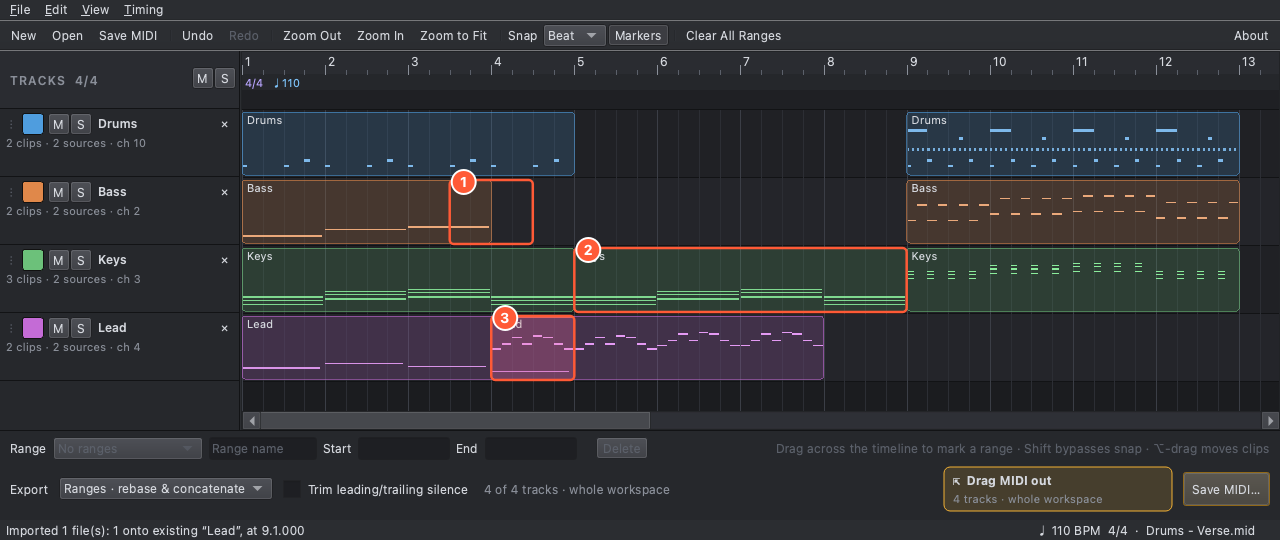
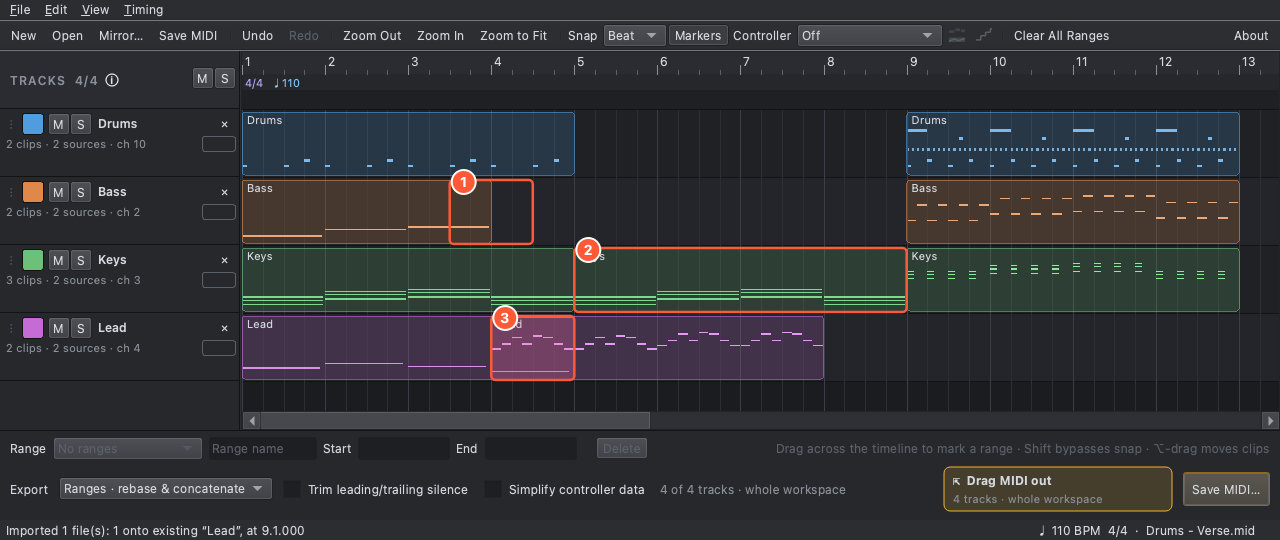
README: document mirror mode properly; real-project screenshots
- Mirror mode section rewritten: why, annotated screenshot of a real Reason
  song, a session start to finish, what carries across saves, what's read-only
- "Open DAW projects directly" gets a picture of real Cubase and Reason
  projects beside Reason's own MIDI export
- "See controller data" moved into Step 1; window description covers the
  track panel's title band
- All README screenshots regenerated for the current window; the generator
  gains the mirror and open-projects scenes, using projects in samples/

diff --git a/tools/make_readme_screenshots.py b/tools/make_readme_screenshots.py
@@ -338,10 +338,10 @@ def main() -> None:
     s = Shot(w)
     tl, tp, ep = w.timeline, w.track_panel, w.export_panel
     vw = tl.viewport().width()
-    s.note(QRectF(w.findChild(QToolBar).geometry()).adjusted(2, 2, -2, -2))
+    s.note(QRectF(w.findChild(QToolBar).geometry()).adjusted(2, 2, -2, -2), x=1180, y=36)
     s.note(vp_rect(w, 0, 0, vw, tl.range_top()))
     s.note(vp_rect(w, 0, tl.range_top(), vw, tl.header_h()))
-    s.note(QRectF(wrect(w, tp)).adjusted(1, tl.header_h(), -1, 0))
+    s.note(QRectF(wrect(w, tp)).adjusted(1, 1, -1, 0), x=162, y=89)
     s.note(vp_rect(w, 0, tl.header_h(), vw, tl.lane_top(4)), x=bar_x(w, 3) + 6, y=vp_rect(w, 0, tl.header_h(), 0, 0).top() + 14)
     s.note(wrect(w, ep).adjusted(2, 2, -2, -2))
     s.save("01-window.png")
@@ -504,6 +504,68 @@ def main() -> None:
     w.close()
     compose(parts).save(os.path.join(OUT, "08-export-modes.png"), "PNG")
     print("wrote docs/images/08-export-modes.png")
+
+    # ---- 9. mirror mode, on a real project -----------------------------------------------------------------
+    # The pictures in 9 and 10 use real projects kept in samples/ (a Reason song and a Cubase project), so they
+    # show what the readers really produce, not the demo song above.
+    from concurrent.futures import Future
+
+    class Inline:  # a synchronous executor, so the first read is done before the picture is taken
+        def submit(self, fn, *args):
+            fut = Future()
+            fut.set_result(fn(*args))
+            return fut
+
+    reason_song = os.path.join(ROOT, "samples", "reason-check", "Day01-0-3(14).reason")
+    w = new_window(app)
+    w.resize(1280, 660)
+    assert w.start_mirror(reason_song, executor=Inline())
+    w._mirror_watcher._timer.stop()  # nothing to poll in a picture
+    w._mirror_updated = "14:32:07"
+    w._update_mirror_banner()
+    w.timeline.zoom_to_fit()
+    ctl = w.ctl
+    ctl.add_range(F(24), F(56))
+    ctl.update_range(ctl.ws.ranges[0].id, name="Verse 1")
+    ctl.add_range(F(56), F(72))
+    ctl.update_range(ctl.ws.ranges[1].id, name="Chorus 1")
+    ctl.select_range(ctl.ws.ranges[1].id)
+    ctl.set_mute(next(t.id for t in ctl.ws.tracks if t.name == "Nice Strings"), True)  # muted here, not in the file
+    w.timeline.verticalScrollBar().setValue(w.timeline.lane_h)  # start at Piano L, below the muted Guide Track
+    s = Shot(w)
+    tl, tp = w.timeline, w.track_panel
+    vw = tl.viewport().width()
+    top = vp_rect(w, 0, tl.range_top(), 0, 0).top()
+    s.note(wrect(w, w.mirror_banner).adjusted(2, 1, -2, -1), x=1160, y=65)
+    s.note(vp_rect(w, tl.x_of(24) - 3, tl.range_top(), tl.x_of(72) + 3, tl.header_h()), x=bar_x(w, 22) + 150, y=top + 12)
+    mute_y = vp_rect(w, 0, tl.header_h() + 2 * tl.lane_h, 0, 0).top()  # the Nice Strings lane
+    s.note(QRectF(46, mute_y + 4, 50, 24), x=204, y=mute_y + 16)
+    s.save("09-mirror.png")
+    w.unmirror()
+    w.close()
+
+    # ---- 10. opening real projects directly --------------------------------------------------------------------
+    def lanes(path: str, rows: int, skip: int = 0) -> QPixmap:
+        win = new_window(app)
+        win.resize(1280, 640)
+        win.import_paths([path])
+        win.timeline.zoom_to_fit()
+        win.timeline.verticalScrollBar().setValue(skip * win.timeline.lane_h)
+        QApplication.processEvents()
+        y = pos_in(win, win.timeline.viewport(), QPoint(0, 0)).y()
+        pm = win.grab().copy(QRect(0, y - 2, win.width(), win.timeline.header_h() + rows * win.timeline.lane_h))
+        win.close()
+        return pm
+
+    cubase_proj = os.path.join(ROOT, "samples", "project-sets", "Ditty-04-Macbook.cpr")
+    reason_midi = os.path.join(ROOT, "samples", "reason-check", "Day01-0-3(14).mid")
+    parts = [
+        ("A Cubase project, opened directly: every part in place, with its name, and muted parts shown as muted", lanes(cubase_proj, 4)),
+        ("A Reason song, opened directly: each clip is what Reason plays there, named as in the song", lanes(reason_song, 4, skip=1)),
+        ("For comparison, the same Reason song as Reason's own MIDI export: one long clip per track, no clip names or mutes", lanes(reason_midi, 4, skip=3)),
+    ]
+    compose(parts).save(os.path.join(OUT, "10-open-projects.png"), "PNG")
+    print("wrote docs/images/10-open-projects.png")
     print("ok")
 
 

diff --git a/README.md b/README.md
@@ -48,7 +48,7 @@ Ranges are optional, but they're what make this a palette rather than a file shu
 1. **Toolbar:** New, Open, **Mirror…** (see [Mirror a project while you work](#mirror-a-project-while-you-work)), Save MIDI, Undo/Redo, zoom, the Snap list, the **Markers** button, the **Controller** list with its two icon buttons (see [See controller data](#see-controller-data)), Clear All Ranges, and About at the far right.
 2. **Ruler and info rows:** bar numbers, then tempo and time signature, then markers. The **marker row** appears only when there is a marker to show: it lists the markers of the tracks an export with no ranges would include (so muting a track removes its markers), each in its track's colour. The **Markers** button (also Timing ▸ Show Markers) turns the row off; markers still show in their lanes and are still exported. The button's setting is remembered between runs.
 3. **Range strip:** your ranges, as amber bars. This is where you make and move them.
-4. **Track headers:** colour, **M**ute, **S**olo, name, and a ✕ to remove. Drag ⋮⋮ to reorder. A small box under the ✕ shows which controller the track displays (CC1, PB, AT), red when the track overrides the toolbar choice.
+4. **Track panel:** its title band says **TRACKS** with how many tracks currently count (not muted, or soloed) out of the total, an **(i)** that opens the Sources dialog (every source in the session, the tracks each feeds, and **Solo all source tracks**), and **M** and **S** boxes that clear all mutes or solos (lit while any are set). Below it, each **track header** has colour, **M**ute, **S**olo, name, a ✕ to remove, and a line saying how many clips and sources the track holds and its channel. Drag ⋮⋮ to reorder. A small box under the ✕ shows which controller the track displays (CC1, PB, AT), red when the track overrides the toolbar choice.
 5. **Lanes:** one per track, showing its clips with their notes, lyrics and text. The timeline is this whole area.
 6. **Bottom panel:** the selected range's name and exact positions, then the export controls: the mode, the **Drag MIDI out** tile and **Save MIDI…**.
 
@@ -59,32 +59,6 @@ Zoom with ⌘ + wheel, a trackpad pinch, ⌘= / ⌘- (or the toolbar), and ⌘0 
 Drag MIDI from another app, or `.mid` / `.dawproject` / `.cpr` / `.reason` files and folders, onto the window. You can also use File ▸ Open (⌘O), open a file with the app from the Finder or Explorer, or pass paths on the command line. Each import **adds** to what you already hold, including files opened from the Finder or Explorer while the app is running: only one copy of the app runs, and it takes them into its open window.
 
 A project file arrives as a whole song: see the next section.
-
-#### Open DAW projects directly
-
-Drop a saved **Cubase** or **Reason** project (or open it) and MIDI Interchange reads the arrangement straight out of the project file: each track with its clips at their real positions, the tempo map, mutes, and the controller data. It's the song as the DAW plays it, ready to range and hand on, without exporting anything from the DAW first. The project file is only ever read, so it's safe to do with a project that's open in the DAW.
-
-| Format | What comes across |
-|---|---|
-| **Cubase 15 and 16** (`.cpr`) | MIDI parts with their trims and names, part and track mute and solo, shared copies, notes, controllers, pitch bend and program changes, tempo and time signatures, and markers. Notes muted in Cubase's editors are left out and the track transpose (MIDI Modifiers) is applied, as Cubase's own MIDI export does. |
-| **Reason 13 and 14** (`.reason`) | Each track's note lanes as one track, each clip holding exactly what Reason plays there: loops written out, overlapped parts left out, **Blocks** written out at each placement. Notes, mod wheel, pitch bend (curves too), sustain, expression and aftertouch, tempo and time signatures. Muted clips, lanes and Block placements arrive as muted clips. |
-| **DAWproject 1.0** (`.dawproject`) | Arrangement MIDI, clip positions and mute states, loops, stepped tempo changes, time signatures and markers, from Bitwig, Studio One, Cubase and others that export it. |
-
-The Cubase and Reason readers are checked against each DAW's own MIDI export of the same projects. On the real projects checked, they reproduce that export note for note, tempo map included; the few known differences are listed in the plans below.
-
-**Muted clips** from a project stay on the timeline, drawn with thin crosses, and are left out of exports. Right-click a clip ▸ **Mute Clip** / **Unmute Clip**, or press **M** with the pointer over it, to change that. This works on any clip, not just imported ones.
-
-**Source Info** (right-click a track) shows the format and version, and lists anything the import left out. The **(i)** beside the track count, top left, opens a list of every source in the session with the same details, and the tracks each one feeds; **Solo all source tracks** there solos exactly those tracks.
-
-**Experimental: what to expect.** The project formats aren't published, so these readers were built by studying projects saved for the purpose:
-
-- **Versions:** Cubase 15 and 16, and Reason 13 and 14. Other Cubase versions are refused with a clear message. Songs saved by Reason 12 and earlier are encrypted: open them in Reason 13 or later and save them again first. A future DAW update could change the format; if a project won't open, or something looks wrong, a copy of the project helps a lot in a bug report.
-- **MIDI only:** audio, instruments, plug-ins and device automation aren't imported, nor is anything a DAW generates at playback: Cubase Pattern Editor parts, the chord track and MIDI inserts, and Reason pattern devices and Player devices. They're listed in Source Info.
-- **Disabled tracks:** a Cubase track switched off with Disable Track isn't imported, as Cubase plays nothing from it and leaves it out of its own MIDI export; a note in Source Info says which. Muted and hidden tracks still come in (hidden ones are noted).
-- **Linear time base:** a Cubase track set to the linear (seconds) time base comes in as an ordinary track, its positions converted to ticks at the project's tempo as saved, as Cubase's own MIDI export does; a note in Source Info says which tracks. It is not rescaled if you change the project's tempo later, but mirror mode converts again on each save.
-- **Approximations:** Cubase tempo ramps become a tempo step every beat, as Cubase's own MIDI export does. Folders are flattened, Reason's mixer mute and solo aren't read, and a Reason clip's hidden notes and loop structure can't be brought back once written out.
-
-Details, evidence and decisions: the [Cubase](docs/plans/0.4.0/cubase-import.md), [Reason](docs/plans/0.4.0/reason-import.md) and [DAWproject](docs/plans/0.4.0/dawproject-import.md) plans.
 
 ![Dragging a clip in, with the landing preview](docs/images/02-drag-in.png)
 
@@ -110,6 +84,45 @@ Dragging near either edge of the timeline scrolls it, and it grows as you drag r
 - **Song titles:** Staccato.ai names tracks "part - song" and changes the song between generations. If no name matches exactly, names are compared again without a known song title, so "Drums - Staccato Generation" joins "Drums - Industrial EBM Anthem"; the status bar says when it did. A song title is known only from the file itself (its tempo track's name, or an ending all its tracks share), so DAW clips such as "Lead - Verse" and "Lead - Chorus" never match.
 
 The first file with a tempo map sets the workspace tempo. To adopt another file's map, right-click the ruler, the tempo row or the marker row and choose Tempo Map (also in Timing ▸ Tempo Map; the current file is ticked), or right-click one of that file's tracks and choose Use This Track's Tempo Map (shown only for a track whose file has a tempo map). Undo reverses it.
+
+#### Open DAW projects directly
+
+Drop a saved **Cubase** or **Reason** project (or open it) and MIDI Interchange reads the arrangement straight out of the project file: each track with its clips at their real positions, the tempo map, mutes, and the controller data. It's the song as the DAW plays it, ready to range and hand on, without exporting anything from the DAW first. The project file is only ever read, so it's safe to do with a project that's open in the DAW.
+
+| Format | What comes across |
+|---|---|
+| **Cubase 15 and 16** (`.cpr`) | MIDI parts with their trims and names, part and track mute and solo, shared copies, notes, controllers, pitch bend and program changes, tempo and time signatures, and markers. Notes muted in Cubase's editors are left out and the track transpose (MIDI Modifiers) is applied, as Cubase's own MIDI export does. |
+| **Reason 13 and 14** (`.reason`) | Each track's note lanes as one track, each clip holding exactly what Reason plays there: loops written out, overlapped parts left out, **Blocks** written out at each placement. Notes, mod wheel, pitch bend (curves too), sustain, expression and aftertouch, tempo and time signatures. Muted clips, lanes and Block placements arrive as muted clips. |
+| **DAWproject 1.0** (`.dawproject`) | Arrangement MIDI, clip positions and mute states, loops, stepped tempo changes, time signatures and markers, from Bitwig, Studio One, Cubase and others that export it. |
+
+The Cubase and Reason readers are checked against each DAW's own MIDI export of the same projects. On the real projects checked, they reproduce that export note for note, tempo map included; the few known differences are listed in the plans below.
+
+**Muted clips** from a project stay on the timeline, drawn with thin crosses, and are left out of exports. Right-click a clip ▸ **Mute Clip** / **Unmute Clip**, or press **M** with the pointer over it, to change that. This works on any clip, not just imported ones.
+
+**Source Info** (right-click a track) shows the format and version, and lists anything the import left out. The **(i)** beside the track count, top left, opens a list of every source in the session with the same details, and the tracks each one feeds; **Solo all source tracks** there solos exactly those tracks.
+
+**Experimental: what to expect.** The project formats aren't published, so these readers were built by studying projects saved for the purpose:
+
+- **Versions:** Cubase 15 and 16, and Reason 13 and 14. Other Cubase versions are refused with a clear message. Songs saved by Reason 12 and earlier are encrypted: open them in Reason 13 or later and save them again first. A future DAW update could change the format; if a project won't open, or something looks wrong, a copy of the project helps a lot in a bug report.
+- **MIDI only:** audio, instruments, plug-ins and device automation aren't imported, nor is anything a DAW generates at playback: Cubase Pattern Editor parts, the chord track and MIDI inserts, and Reason pattern devices and Player devices. They're listed in Source Info.
+- **Disabled tracks:** a Cubase track switched off with Disable Track isn't imported, as Cubase plays nothing from it and leaves it out of its own MIDI export; a note in Source Info says which. Muted and hidden tracks still come in (hidden ones are noted).
+- **Linear time base:** a Cubase track set to the linear (seconds) time base comes in as an ordinary track, its positions converted to ticks at the project's tempo as saved, as Cubase's own MIDI export does; a note in Source Info says which tracks. It is not rescaled if you change the project's tempo later, but mirror mode converts again on each save.
+- **Approximations:** Cubase tempo ramps become a tempo step every beat, as Cubase's own MIDI export does. Folders are flattened, Reason's mixer mute and solo aren't read, and a Reason clip's hidden notes and loop structure can't be brought back once written out.
+
+![A Cubase project and a Reason song opened directly, and the Reason song's own MIDI export for comparison](docs/images/10-open-projects.png)
+
+The pictures show real projects opened straight from their files. A direct import brings in the song as the DAW plays it: every clip in place and named, muted clips marked as muted, and the project's tempo. The bottom strip is the same Reason song as Reason's own MIDI export, which is why opening the project is better: the export is one long clip per track, with the names and mutes gone and extra tracks for Reason's devices.
+
+Details, evidence and decisions: the [Cubase](docs/plans/0.4.0/cubase-import.md), [Reason](docs/plans/0.4.0/reason-import.md) and [DAWproject](docs/plans/0.4.0/dawproject-import.md) plans.
+
+#### See controller data
+
+Pick a controller from the toolbar's **Controller** list (also View ▸ Controller) to draw its curve on every track that has it. The list holds every controller found in the session, starting with Pitch Bend and Aftertouch, then CCs by number (1 Mod Wheel, 7 Volume, 11 Expression, 64 Sustain…). Bank select, RPN/NRPN and the channel mode messages aren't listed. **Off** is the default.
+
+- The first icon button draws the curve in a **lane** under the notes, or **over** the notes. A lane makes only the tracks that have the controller taller, by a strip under their notes; overlay leaves every track at the normal height. The second draws it as **steps** (how Reason and Cubase first import it) or with **joined lines**. Both apply to every track.
+- Click the box under a track's ✕ to give that track its own controller, or none, or **Follow view** again. Overriding tracks show a red box, and the change is one undo step.
+- A clip with none of the chosen controller shows nothing. Trimmed clips start from the value export carries into the cut.
+- This only changes what you see. Your MIDI, and everything you export or drag out, is the same whatever is shown. The choice is remembered with your workspace.
 
 ### Step 2: Tidy what you hold
 
@@ -139,15 +152,6 @@ The rest of the rules, in one place:
 The **clip menu** (left) has Duplicate, Mute/Unmute Clip, Butt Against Previous Clip, Restore Full Clip (on a trimmed clip), Move Clip to Track (or New Track) and Delete Clip. Its **Track:** submenu, and a right-click on a track header, give the **track menu** (right): Mute/Unmute, Rename, Move Up/Down, **Merge Into** another track, **Save This Track…** (exports just that track, even if it's muted), Source Info… and Remove Track.
 
 Tracks: click a name to rename it, drag ⋮⋮ to reorder, ✕ to remove. File ▸ New (⌘N, also on the toolbar) clears the workspace, and Undo brings it back (see [Returning to your workspace](#returning-to-your-workspace) for what happens if you then quit). **Undo / redo** (⌘Z / ⇧⌘Z) cover everything.
-
-### See controller data
-
-Pick a controller from the toolbar's **Controller** list (also View ▸ Controller) to draw its curve on every track that has it. The list holds every controller found in the session, starting with Pitch Bend and Aftertouch, then CCs by number (1 Mod Wheel, 7 Volume, 11 Expression, 64 Sustain…). Bank select, RPN/NRPN and the channel mode messages aren't listed. **Off** is the default.
-
-- The first icon button draws the curve in a **lane** under the notes, or **over** the notes. A lane makes only the tracks that have the controller taller, by a strip under their notes; overlay leaves every track at the normal height. The second draws it as **steps** (how Reason and Cubase first import it) or with **joined lines**. Both apply to every track.
-- Click the box under a track's ✕ to give that track its own controller, or none, or **Follow view** again. Overriding tracks show a red box, and the change is one undo step.
-- A clip with none of the chosen controller shows nothing. Trimmed clips start from the value export carries into the cut.
-- This only changes what you see. Your MIDI, and everything you export or drag out, is the same whatever is shown. The choice is remembered with your workspace.
 
 ### Step 3: Mark ranges
 
@@ -212,15 +216,37 @@ An export whose clips all come from one song keeps the song's title in its tempo
 
 ### Mirror a project while you work
 
-Mirror mode keeps the palette in step with a project you're still working on. Choose **File ▸ Open & Mirror MIDI/Project File…** (or **Mirror…** on the toolbar) and pick one file: a Cubase, Reason or DAWproject project, or a MIDI file. It arrives at bar 1 and the app watches it. Each time you save in the DAW, the app re-reads the file within a second or two, so whatever you last saved is on the timeline, ready to range and drag out.
+Normally, moving the latest version of a song means dropping the project in again after every save and setting your ranges up again. **Mirror mode** removes that. You point the app at one file, keep working in your DAW, and the app keeps itself in step: each time you save, the new state is on the timeline within a second or two, with your ranges still in place, ready to drag out.
 
-- **You can't miss it.** The window gets a cyan frame, a cyan banner naming the file with an **Unmirror** button and the time of the last update, a tinted track panel and ruler, and "Mirroring" in the title bar.
-- **It owns the workspace.** If you already hold something, the app asks first, because mirroring replaces it. While mirroring, nothing else can be added or edited: no drops, Open, New, Undo, track or clip edits, tempo changes. The notes, lanes and clips are the project's, shown read-only.
-- **What you can still do:** make, move and lock ranges, choose which tracks a range includes, mute and solo, view controllers, zoom, **drag out** and **Save MIDI…**. Ranges stay put across saves (they're kept by time), and so do range locks, colours, export channels and controller choices. Tracks are matched by name, as when you drop a file onto a track; a track renamed in the DAW arrives as a new track.
-- **Mute and solo.** A track you haven't touched follows the file at each save. A track you mute or solo here keeps your setting, and its M and S buttons get a cyan outline to show it differs from what the file last saved; hover for details. **File ▸ Sync Mutes to File** puts every track back to the file's, and a track's right-click ▸ **Follow File's Mute/Solo** does one track. These make no undo steps, because undo is off while mirroring.
-- **A save that's half-written or can't be read** keeps the last good version and says so in the status bar, then tries again. A file that goes missing is waited for at the same path.
-- **Only saved changes count.** A project changes on disk only when you save it.
-- **Unmirror** (the banner button or File ▸ Unmirror) stops the watch. The workspace stays as the last import, editing returns, and the undo history starts empty. A watch is never resumed: after quitting, the app reopens with an ordinary workspace.
+![A Cubase, Reason or DAWproject project, mirrored](docs/images/09-mirror.png)
+
+1. **The banner.** Cyan, so you can't mistake the mode: it names the file, says the workspace is read-only, shows when the last save was picked up, and has the **Unmirror** button. The whole window also gets a cyan frame, the title bar says "Mirroring", and the track panel and ruler take a cool tint. The project's own clips, with their names and mutes, are left as they are so the MIDI stays easy to read. (The picture is a real Reason song.)
+2. **Your ranges,** which stay where you put them from one save to the next.
+3. **A track you've muted or soloed here.** Its **M** and **S** get a cyan outline to show it differs from what the file last saved (hover for the details).
+
+#### A session, start to finish
+
+1. In the palette choose **File ▸ Open & Mirror MIDI/Project File…** (or **Mirror…** on the toolbar) and pick one file: a Cubase (`.cpr`), Reason (`.reason`) or DAWproject project, or a MIDI file. If you already hold something, the app asks first, because mirroring replaces it. The project arrives at bar 1, with its tracks, tempo, mutes and controllers, as for any direct import.
+2. Mark the ranges you want (a verse, a chorus, the bars you're about to take to another app), choose which tracks each includes, and set the export mode as usual.
+3. Go back to your DAW and carry on. **Save the project.** The banner's *Last updated* time changes and the timeline shows the new notes, clips and tempo. Your ranges, range locks, track colours, export channels and controller choices are still there.
+4. When you want the current state in another app, **drag it out** or **Save MIDI…**, exactly as in Step 5. There's nothing to re-import first.
+5. Repeat from step 3 as often as you like. **Unmirror** when you've finished.
+
+#### What it does for you
+
+- **It sees what the DAW has saved.** A project only changes on disk when you save it, so anything you haven't saved isn't here yet. Cubase and Reason save in different ways (Cubase writes a new file and swaps it in, Reason writes into the existing one). The app handles both, waits until the file has been still for half a second, and skips a save that changed nothing.
+- **Your ranges survive each save.** They're kept by time, along with their names, colours, locks and selection. Tracks are matched by name, as when you drop a file onto a track, so a range's track choices carry on too. A track that's new in the project joins the ranges like any new track; a track that's gone from it drops out. A track you **rename** in the DAW arrives as a new track.
+- **Mute and solo.** A track you haven't touched follows the project at each save. A track you mute or solo here keeps your setting (marked in cyan, see 3 above). **File ▸ Sync Mutes to File** puts every track back to the project's, and a track's right-click ▸ **Follow File's Mute/Solo** does one.
+- **A half-written or unreadable save** keeps the last good version, says so in the status bar and banner, and tries again. If the file goes missing (moved or deleted), the app keeps what it has and waits for it at the same path.
+- **A long gesture isn't interrupted.** If a save arrives while you're dragging a range or dragging MIDI out, it's applied when you let go.
+
+#### What you can't do while mirroring
+
+The workspace belongs to the file, so it's read-only. Drops, **New**, **Open**, **Undo**, **Redo**, track edits (rename, reorder, remove, colour, export channel), clip edits (move, copy, trim, split, mute, delete) and tempo changes are all switched off, and a drop says "Mirroring: unmirror to import". Those edits would be overwritten at the next save anyway.
+
+You can still make, move, rename, lock and delete ranges, choose which tracks a range includes, mute and solo, change the export settings and the controller display, zoom, look at Source Info, and **drag out** or **Save MIDI…**. Range and mute changes make no undo steps while mirroring.
+
+**Unmirror** (the banner button or **File ▸ Unmirror**) stops the watch with no confirmation. The workspace stays as the last import, editing comes back, and the undo history starts empty. A watch is never resumed: after quitting, the app reopens with an ordinary workspace.
 
 ### Everything you can do (quick reference)
 
